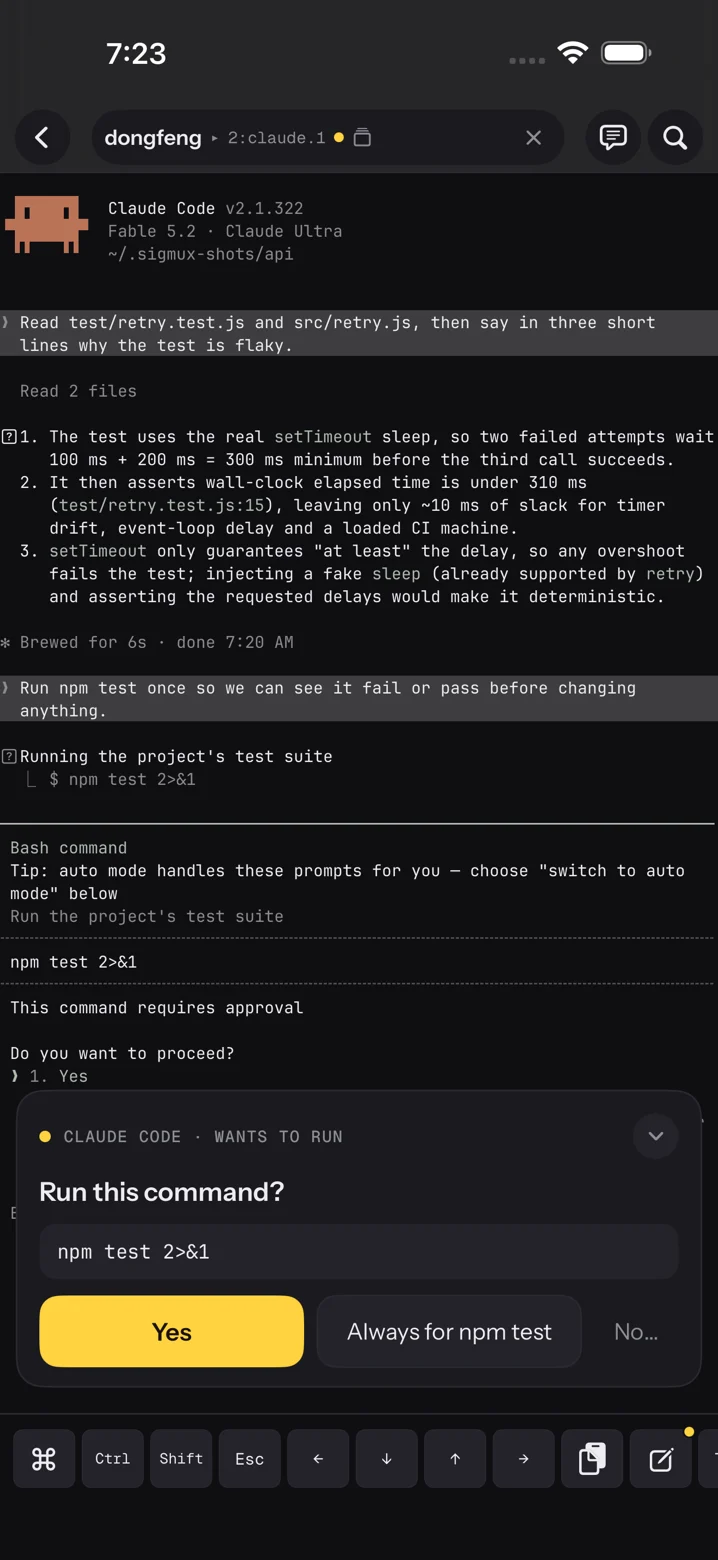
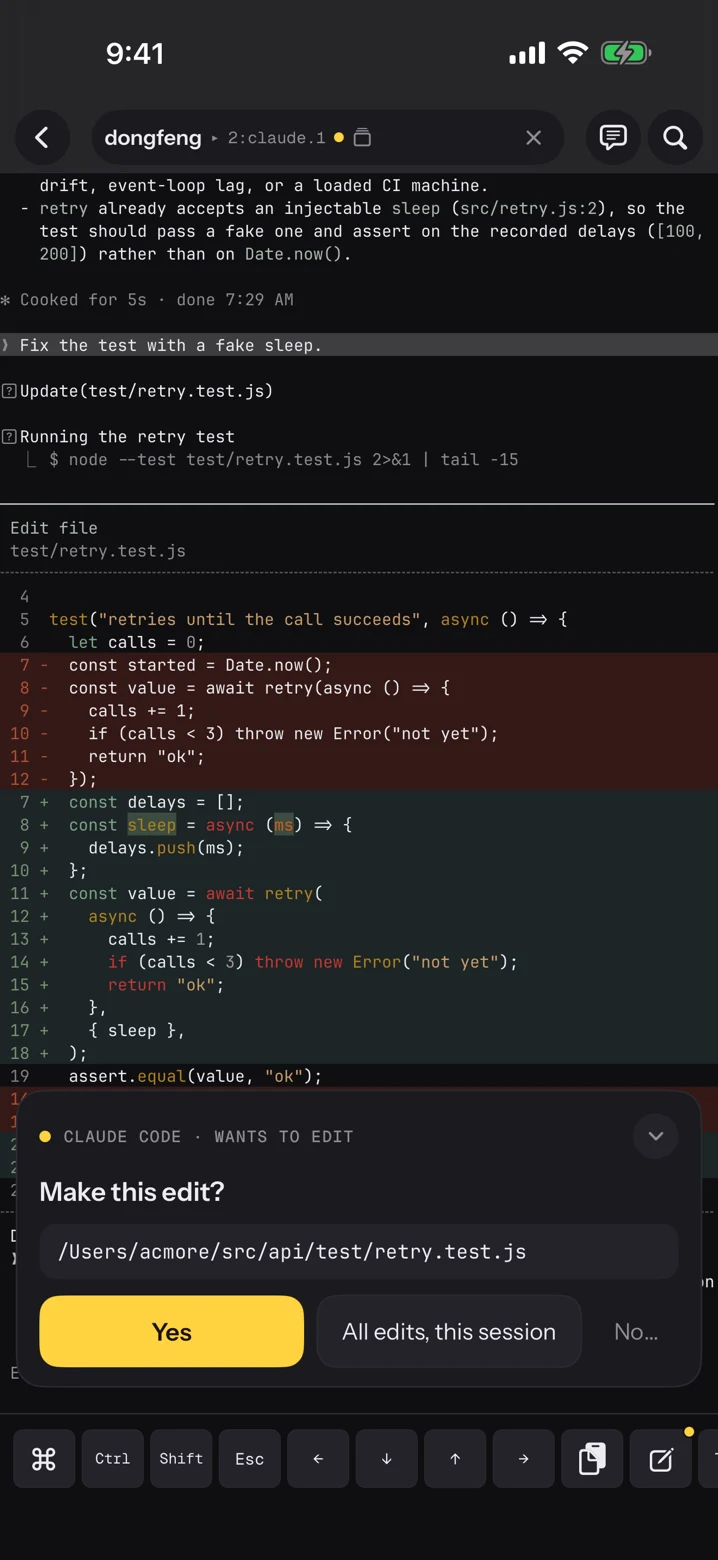
Landing page: reshoot with an edit approval, a tidier project path and 9:41
The approval shot now shows the coloured diff of the edit Claude Code
asks for, under the quick-reply card. Same 1.0.0 code, iOS 26.3
simulator, dark appearance.

diff --git a/index.html b/index.html
@@ -181,7 +181,7 @@
           <p>Free to try for 14 days. Then one purchase, with Family Sharing. No subscription.</p>
         </div>
       </div>
-      <div class="shot"><img src="assets/quick-reply.webp" alt="Claude Code in a tmux window in Sigmux, asking to run npm test. A card above the keys offers Yes, Always for npm test, and No." width="718" height="1560"></div>
+      <div class="shot"><img src="assets/quick-reply.webp" alt="Claude Code in a tmux window in Sigmux, showing the diff of an edit it wants to make. A card above the keys asks Make this edit? and offers Yes, All edits this session, and No." width="718" height="1560"></div>
     </section>
 
     <section class="window flip" id="tmux">
